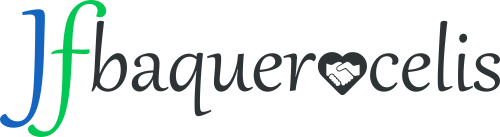
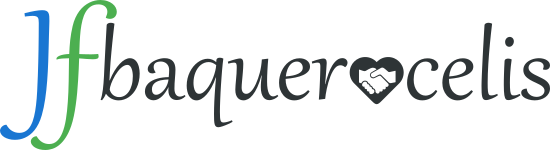
[change] design, colours palette and webfont

diff --git a/public/css/style.css b/public/css/style.css
@@ -1,3 +1,2 @@
 @import 'vendor/flaticon.css';
-@import 'url(https://fonts.googleapis.com/css?family=Open+Sans:400,700)';
-body{font:16px 'Lato',sans-serif;color:#2e3436}.jf-links{color:#fff;-o-transition:all 0.3s ease;-ms-transition:all 0.3s ease;-webkit-transition:all 0.3s ease;-moz-transition:all 0.3s ease;transition:all 0.3s ease;}.jf-links:hover{color:#2e3436}.container-master{display:flex;}.container-master .container__myself{flex:1 1 40%;background-color:#1e88e5;color:#fff;height:100vh}.container-master .container__articles{display:flex;flex-direction:column;flex:1 1 60%;height:100vh}.myself{display:flex;flex-flow:column wrap;height:100%;border-right:5px solid #00c853;-webkit-box-shadow:2px 0 5px #a9a9a9;box-shadow:2px 0 5px #a9a9a9;}.myself__container__avatar{margin:0;width:55%;}.myself__avatar{border:3px solid #1565c0;width:55%;-webkit-border-radius:50%;border-radius:50%}.myself__container__menu,.myself__menu__action,.myself__menu__action--float{display:none}.myself__profile{display:flex;flex-flow:column wrap;align-items:center;justify-content:center;flex:1 1 auto;text-align:center}.myself__container-logo{margin:0;width:80%;}.myself__logo{width:100%}.myself__fullname{margin:1rem 0 0;font-weight:400}.myself__description{margin:0 0 1rem}.myself__footer{display:flex;flex-flow:row wrap;justify-content:space-around;}.myself__footer__by{text-align:center;font-size:.85rem;letter-spacing:1px;}.myself__footer__by p{margin:.4rem 0}.myself__footer__social{display:flex;justify-content:space-around;align-items:center;}.myself__footer__social .myself__footer__link{padding:0 .5rem;color:#fff;text-decoration:none;font-size:1.6rem;-o-transition:all 0.2s ease;-ms-transition:all 0.2s ease;-webkit-transition:all 0.2s ease;-moz-transition:all 0.2s ease;transition:all 0.2s ease;}.myself__footer__social .myself__footer__link:hover{color:#2e3436}.container__articles{overflow-x:hidden;overflow-y:scroll}.welcome,.portfolio,.my-tools{padding:0 4rem;display:none;}.welcome__title,.portfolio__title,.my-tools__title{border-bottom:1px solid #a9a9a9;margin-bottom:.5rem}.welcome__description,.portfolio__description,.my-tools__description{margin:.5rem 0 0}.header{background-color:#1565c0;-webkit-box-shadow:0 2px 4px #a9a9a9;box-shadow:0 2px 4px #a9a9a9;width:100%;z-index:1}.header__menu{display:flex;justify-content:center}.header__menu-list{display:flex;margin:0;padding:0}.header__menu-list__link{list-style-type:none;color:#fff;text-decoration:none;padding:1rem 1.1rem;position:relative;}.header__menu-list__link:after{content:"";opacity:0;-ms-filter:"progid:DXImageTransform.Microsoft.Alpha(Opacity=0)";filter:alpha(opacity=0);position:absolute;left:0;bottom:0;width:100%;height:0;background-color:#1e88e5}.header__menu-list__link--active:after{content:"";opacity:1;-ms-filter:none;filter:none;position:absolute;left:0;bottom:0;width:100%;height:5px;background-color:#1e88e5}.header__menu-list__link:before{content:"";opacity:0;-ms-filter:"progid:DXImageTransform.Microsoft.Alpha(Opacity=0)";filter:alpha(opacity=0);position:absolute;left:0;top:0;width:100%;height:0;background-color:#1e88e5}.header__menu-list__link--active:before{content:"";opacity:1;-ms-filter:none;filter:none;position:absolute;left:0;top:0;width:100%;height:5px;background-color:#1e88e5}.header__menu-list__link:hover:after{-o-animation-name:borderBottom__menu;-ms-animation-name:borderBottom__menu;-webkit-animation-name:borderBottom__menu;-moz-animation-name:borderBottom__menu;animation-name:borderBottom__menu;-o-animation-duration:.3s;-ms-animation-duration:.3s;-webkit-animation-duration:.3s;-moz-animation-duration:.3s;animation-duration:.3s;-o-animation-fill-mode:forwards;-ms-animation-fill-mode:forwards;-webkit-animation-fill-mode:forwards;-moz-animation-fill-mode:forwards;animation-fill-mode:forwards}.header__menu-list__link:hover:before{-o-animation-name:borderBottom__menu;-ms-animation-name:borderBottom__menu;-webkit-animation-name:borderBottom__menu;-moz-animation-name:borderBottom__menu;animation-name:borderBottom__menu;-o-animation-duration:.3s;-ms-animation-duration:.3s;-webkit-animation-duration:.3s;-moz-animation-duration:.3s;animation-duration:.3s;-o-animation-fill-mode:forwards;-ms-animation-fill-mode:forwards;-webkit-animation-fill-mode:forwards;-moz-animation-fill-mode:forwards;animation-fill-mode:forwards}.welcome{display:flex;flex-flow:column nowrap;align-items:center;}.welcome__community{color:#1565c0;}.welcome__community:hover{color:#00c853}.portfolio{flex-flow:column nowrap;align-items:center;justify-content:center;}.portfolio__blockquote{border-left:5px solid #00c853;padding:.5rem .4rem;width:60%;margin:1rem auto;background-color:rgba(0,200,83,0.1);font-size:.95rem}.portfolio__repos{color:#2e3436;}.portfolio__repos:hover{color:#1565c0}.portfolio__container-works{display:flex;flex-direction:row;justify-content:center;}.portfolio__container-works .portfolio__work{display:flex;flex-direction:column;justify-content:space-between;align-items:center;margin:.1rem .4rem;width:9rem;border:1px solid #a9a9a9;-webkit-border-radius:5px;border-radius:5px;}.portfolio__container-works .portfolio__work__logo{width:100%;padding:.5rem}.portfolio__container-works .portfolio__work__description{text-align:center;font-weight:700;background-color:#00c853;color:#fff;border-top:1px solid #a9a9a9;width:100%;margin:0}.portfolio__container-educations{display:flex;flex-direction:column;}.portfolio__container-educations .portfolio__education{display:flex;align-items:flex-start;margin:.3rem 0;border-left:2px solid #00c853;-o-transition:0.1s all ease;-ms-transition:0.1s all ease;-webkit-transition:0.1s all ease;-moz-transition:0.1s all ease;transition:0.1s all ease;}.portfolio__container-educations .portfolio__education:hover{border-left:5px solid #1565c0}.portfolio__container-educations .portfolio__education:hover .portfolio__education__info p{text-decoration:underline}.portfolio__container-educations .portfolio__education__image{width:4em}.portfolio__container-educations .portfolio__education__info{text-decoration:none;color:#2e3436;}.portfolio__container-educations .portfolio__education__info p{margin:0}.my-tools{flex-flow:column nowrap;justify-content:center;align-items:center;}.my-tools__blockquote{border-left:5px solid #00c853;align-self:flex-start;padding:.5rem .4rem;width:60%;margin:1rem auto;background-color:rgba(0,200,83,0.1);font-size:.95rem}.my-tools__container-tool{display:flex;flex-flow:row wrap;margin:.5rem 0}.tool{display:flex;align-items:center;margin:.2rem .1rem;padding:.2rem .4rem;flex:1 1 45%;font-size:.9rem;}.tool__image{width:4rem;padding-right:.5rem}.tool__resume{width:80%}.html{background-color:rgba(241,101,41,0.1);border-bottom:2px solid #f16529}.css{background-color:rgba(1,112,186,0.1);border-bottom:2px solid #0170ba}.javascript{background-color:rgba(252,233,79,0.1);border-bottom:2px solid #fce94f}.stylus{background-color:rgba(46,52,54,0.1);border-bottom:2px solid #2e3436}.node{background-color:rgba(144,199,65,0.1);border-bottom:2px solid #90c741}.article--hide{position:relative;left:100%;top:0;-o-animation-name:hideOut;-ms-animation-name:hideOut;-webkit-animation-name:hideOut;-moz-animation-name:hideOut;animation-name:hideOut;-o-animation-duration:.5s;-ms-animation-duration:.5s;-webkit-animation-duration:.5s;-moz-animation-duration:.5s;animation-duration:.5s}.article--show{display:flex;position:relative;left:0;top:0;-o-animation-name:showUp;-ms-animation-name:showUp;-webkit-animation-name:showUp;-moz-animation-name:showUp;animation-name:showUp;-o-animation-duration:.5s;-ms-animation-duration:.5s;-webkit-animation-duration:.5s;-moz-animation-duration:.5s;animation-duration:.5s}.shake-up{position:relative;top:0;-o-animation-name:shakeUp;-ms-animation-name:shakeUp;-webkit-animation-name:shakeUp;-moz-animation-name:shakeUp;animation-name:shakeUp;-o-animation-duration:.8s;-ms-animation-duration:.8s;-webkit-animation-duration:.8s;-moz-animation-duration:.8s;animation-duration:.8s;-o-animation-iteration-count:infinite;-ms-animation-iteration-count:infinite;-webkit-animation-iteration-count:infinite;-moz-animation-iteration-count:infinite;animation-iteration-count:infinite}@media screen and (min-width:1500px){body{font-size:24px}.header__menu-list__link{padding:1.5rem 2rem}.welcome,.portfolio,.my-tools{padding:0 8rem;margin:3rem 0}.myself__footer__by{font-size:1.2rem}.myself__footer__social .myself__footer__link{font-size:3rem}}@media screen and (max-width:1150px){.myself__profile{font-size:.9rem}}@media screen and (max-width:1065px){.myself__footer__social{order:-1}}@media screen and (max-width:1014px){.myself__profile{padding:0 1.5rem}.myself__fullname{font-size:1.7rem}.tool{flex:1 1 auto}}@media screen and (max-width:950px){body{overflow:hidden;position:relative}.blanketBody{background:#2e3436;display:none;height:100vh;opacity:.4;-ms-filter:"progid:DXImageTransform.Microsoft.Alpha(Opacity=40)";filter:alpha(opacity=40);position:fixed;top:0;width:100vw;z-index:1}.container-master{flex-direction:column}.container__avatar{display:none}.container__articles{display:none}.welcome,.portfolio,.my-tools{display:none;padding:0 2rem;}.welcome__title,.portfolio__title,.my-tools__title{text-align:center}.welcome__blockquote,.portfolio__blockquote,.my-tools__blockquote{width:100%}.header{display:none}.myself{position:relative;border:none;}.myself__menu__action{display:block;position:absolute;font-size:2.5rem;right:.8rem;top:.5rem;z-index:1}.myself__menu__action--float{position:absolute;background-color:rgba(0,200,83,0.6);color:#fff;font-size:2rem;-webkit-border-radius:50%;border-radius:50%;padding:.8rem;bottom:.7rem;right:.5rem;z-index:10;-webkit-box-shadow:2px 2px 10px #2e3436;box-shadow:2px 2px 10px #2e3436;}.myself__menu__action--float:active{background-color:#00c853}.myself__container__menu{display:block;position:fixed;top:0;right:-100%;width:55%;height:100vh;background-color:#fff;z-index:11;padding:0 1rem;border-left:5px solid #00c853;}.myself__container__menu .myself__logo{padding:2em 0 .5rem;width:100%}.myself__container__menu .myself__container__click-me{display:flex;flex-direction:column;align-items:center;}.myself__container__menu .myself__container__click-me .myself__click-me{margin:0;text-align:center;font-size:.9rem}.myself__menu{padding:.8rem 0;margin:0;}.myself__menu__link{padding:1rem 0;display:block;align-items:center;color:#2e3436;text-decoration:none;font-size:1rem;}.myself__menu__link + .myself__menu__link{border-top:1px solid #a9a9a9}.myself__menu__item{display:flex;}.myself__menu__item .material-icons{padding-right:.5rem}}@-moz-keyframes borderBottom__menu{from{height:0;opacity:0;-ms-filter:"progid:DXImageTransform.Microsoft.Alpha(Opacity=0)";filter:alpha(opacity=0)}to{height:5px;opacity:1;-ms-filter:none;filter:none}}@-webkit-keyframes borderBottom__menu{from{height:0;opacity:0;-ms-filter:"progid:DXImageTransform.Microsoft.Alpha(Opacity=0)";filter:alpha(opacity=0)}to{height:5px;opacity:1;-ms-filter:none;filter:none}}@-o-keyframes borderBottom__menu{from{height:0;opacity:0;-ms-filter:"progid:DXImageTransform.Microsoft.Alpha(Opacity=0)";filter:alpha(opacity=0)}to{height:5px;opacity:1;-ms-filter:none;filter:none}}@keyframes borderBottom__menu{from{height:0;opacity:0;-ms-filter:"progid:DXImageTransform.Microsoft.Alpha(Opacity=0)";filter:alpha(opacity=0)}to{height:5px;opacity:1;-ms-filter:none;filter:none}}@-moz-keyframes showUp{from{left:100%}to{left:0}}@-webkit-keyframes showUp{from{left:100%}to{left:0}}@-o-keyframes showUp{from{left:100%}to{left:0}}@keyframes showUp{from{left:100%}to{left:0}}@-moz-keyframes hideOut{from{left:0}to{right:100%}}@-webkit-keyframes hideOut{from{left:0}to{right:100%}}@-o-keyframes hideOut{from{left:0}to{right:100%}}@keyframes hideOut{from{left:0}to{right:100%}}@-moz-keyframes shakeUp{0%{opacity:1;-ms-filter:none;filter:none;top:0}50%{opacity:.5rem;-ms-filter:"progid:DXImageTransform.Microsoft.Alpha(Opacity=50rem)";filter:alpha(opacity=50rem);top:-.8rem}100%{opacity:1;-ms-filter:none;filter:none;top:0}}@-webkit-keyframes shakeUp{0%{opacity:1;-ms-filter:none;filter:none;top:0}50%{opacity:.5rem;-ms-filter:"progid:DXImageTransform.Microsoft.Alpha(Opacity=50rem)";filter:alpha(opacity=50rem);top:-.8rem}100%{opacity:1;-ms-filter:none;filter:none;top:0}}@-o-keyframes shakeUp{0%{opacity:1;-ms-filter:none;filter:none;top:0}50%{opacity:.5rem;-ms-filter:"progid:DXImageTransform.Microsoft.Alpha(Opacity=50rem)";filter:alpha(opacity=50rem);top:-.8rem}100%{opacity:1;-ms-filter:none;filter:none;top:0}}@keyframes shakeUp{0%{opacity:1;-ms-filter:none;filter:none;top:0}50%{opacity:.5rem;-ms-filter:"progid:DXImageTransform.Microsoft.Alpha(Opacity=50rem)";filter:alpha(opacity=50rem);top:-.8rem}100%{opacity:1;-ms-filter:none;filter:none;top:0}}
+body{font:16px 'Karla',sans-serif;color:#212121}.jf-links{color:#fff;-o-transition:all 0.3s ease;-ms-transition:all 0.3s ease;-webkit-transition:all 0.3s ease;-moz-transition:all 0.3s ease;transition:all 0.3s ease;}.jf-links:hover{color:#212121}.container-master{display:flex;}.container-master .container__myself{flex:1 1 40%;background-color:#1976d2;color:#fff;height:100vh}.container-master .container__articles{display:flex;flex-direction:column;flex:1 1 60%;height:100vh}.myself{display:flex;flex-flow:column wrap;height:100%;border-right:5px solid #4caf50;-webkit-box-shadow:2px 0 5px #b6b6b6;box-shadow:2px 0 5px #b6b6b6;}.myself__container__avatar{margin:0;width:55%;}.myself__avatar{-webkit-box-shadow:2px 2px 10px #212121;box-shadow:2px 2px 10px #212121;border:3px solid #2196f3;width:55%;-webkit-border-radius:50%;border-radius:50%;-o-transition:all 0.2s ease;-ms-transition:all 0.2s ease;-webkit-transition:all 0.2s ease;-moz-transition:all 0.2s ease;transition:all 0.2s ease;}.myself__avatar:hover{-webkit-box-shadow:none;box-shadow:none}.myself__container__menu,.myself__menu__action,.myself__menu__action--float{display:none}.myself__profile{display:flex;flex-flow:column wrap;align-items:center;justify-content:center;flex:1 1 auto;text-align:center}.myself__container-logo{margin:0;width:70%;}.myself__logo{width:100%}.myself__fullname{margin:1rem 0 0;font-weight:400}.myself__description{margin:0 0 1rem}.myself__footer{display:flex;flex-flow:row wrap;justify-content:space-around;}.myself__footer__by{text-align:center;font-size:.85rem;letter-spacing:1px;}.myself__footer__by p{margin:.4rem 0}.myself__footer__social{display:flex;justify-content:space-around;align-items:center;}.myself__footer__social .myself__footer__link{padding:0 .5rem;color:#fff;text-decoration:none;font-size:1.6rem;-o-transition:all 0.3s ease;-ms-transition:all 0.3s ease;-webkit-transition:all 0.3s ease;-moz-transition:all 0.3s ease;transition:all 0.3s ease;-o-transform:rotate3d(0,0,0,0);-ms-transform:rotate3d(0,0,0,0);-webkit-transform:rotate3d(0,0,0,0);-moz-transform:rotate3d(0,0,0,0);transform:rotate3d(0,0,0,0);}.myself__footer__social .myself__footer__link:hover{-o-transform:rotate3d(0,0,1,-360deg);-ms-transform:rotate3d(0,0,1,-360deg);-webkit-transform:rotate3d(0,0,1,-360deg);-moz-transform:rotate3d(0,0,1,-360deg);transform:rotate3d(0,0,1,-360deg);color:#212121}.container__articles{overflow-x:hidden;overflow-y:scroll}.welcome,.portfolio,.my-tools{padding:0 4rem;display:none;}.welcome__title,.portfolio__title,.my-tools__title{border-bottom:1px solid #b6b6b6;margin-bottom:.5rem}.welcome__description,.portfolio__description,.my-tools__description{margin:.5rem 0 0}.header{background-color:#2196f3;-webkit-box-shadow:0 2px 4px #b6b6b6;box-shadow:0 2px 4px #b6b6b6;width:100%;z-index:1}.header__menu{display:flex;justify-content:center}.header__menu-list{display:flex;margin:0;padding:0}.header__menu-list__link{list-style-type:none;color:#fff;text-decoration:none;padding:1rem 1.1rem;position:relative;}.header__menu-list__link:after{content:"";opacity:0;-ms-filter:"progid:DXImageTransform.Microsoft.Alpha(Opacity=0)";filter:alpha(opacity=0);position:absolute;left:0;bottom:0;width:100%;height:0;background-color:#1976d2}.header__menu-list__link--active:after{content:"";opacity:1;-ms-filter:none;filter:none;position:absolute;left:0;bottom:0;width:100%;height:5px;background-color:#1976d2}.header__menu-list__link:before{content:"";opacity:0;-ms-filter:"progid:DXImageTransform.Microsoft.Alpha(Opacity=0)";filter:alpha(opacity=0);position:absolute;left:0;top:0;width:100%;height:0;background-color:#1976d2}.header__menu-list__link--active:before{content:"";opacity:1;-ms-filter:none;filter:none;position:absolute;left:0;top:0;width:100%;height:5px;background-color:#1976d2}.header__menu-list__link:hover:after{-o-animation-name:borderBottom__menu;-ms-animation-name:borderBottom__menu;-webkit-animation-name:borderBottom__menu;-moz-animation-name:borderBottom__menu;animation-name:borderBottom__menu;-o-animation-duration:.3s;-ms-animation-duration:.3s;-webkit-animation-duration:.3s;-moz-animation-duration:.3s;animation-duration:.3s;-o-animation-fill-mode:forwards;-ms-animation-fill-mode:forwards;-webkit-animation-fill-mode:forwards;-moz-animation-fill-mode:forwards;animation-fill-mode:forwards}.header__menu-list__link:hover:before{-o-animation-name:borderBottom__menu;-ms-animation-name:borderBottom__menu;-webkit-animation-name:borderBottom__menu;-moz-animation-name:borderBottom__menu;animation-name:borderBottom__menu;-o-animation-duration:.3s;-ms-animation-duration:.3s;-webkit-animation-duration:.3s;-moz-animation-duration:.3s;animation-duration:.3s;-o-animation-fill-mode:forwards;-ms-animation-fill-mode:forwards;-webkit-animation-fill-mode:forwards;-moz-animation-fill-mode:forwards;animation-fill-mode:forwards}.welcome{display:flex;flex-flow:column nowrap;align-items:center;}.welcome__title{margin-top:1.5rem}.welcome__description{margin-bottom:2.5rem}.welcome__community{color:#1976d2;}.welcome__community:hover{color:#4caf50}.portfolio{flex-direction:column;align-items:center;}.portfolio__blockquote{border-left:5px solid #4caf50;padding:.5rem .4rem;width:60%;margin:1rem auto;background-color:rgba(0,200,83,0.1);font-size:.95rem}.portfolio__repos{color:#212121;}.portfolio__repos:hover{color:#1976d2}.portfolio__container-works{display:flex;flex-flow:row wrap;align-items:center;justify-content:center;flex:1 0 auto}.portfolio__go-to{text-decoration:none;color:#fff;}.portfolio__go-to:hover .portfolio__work__description{background-color:#1976d2}.portfolio__work{display:flex;flex-direction:column;align-items:center;margin:.2rem .5rem;width:8rem;height:auto;border:1px solid #b6b6b6;-webkit-border-radius:5px;border-radius:5px;}.portfolio__work__logo{width:100%;padding:.5rem 0}.portfolio__work__description{background-color:#4caf50;width:100%;padding:.3rem 0;text-align:center;-o-transition:0.2s all ease;-ms-transition:0.2s all ease;-webkit-transition:0.2s all ease;-moz-transition:0.2s all ease;transition:0.2s all ease}.portfolio__container-educations{display:flex;flex-direction:column;align-items:flex-start;width:100%}.portfolio__education{flex:1 0 auto;display:flex;justify-content:center;align-items:center;border-left:2px solid #4caf50;margin:.2rem 0;-o-transition:0.2s all ease;-ms-transition:0.2s all ease;-webkit-transition:0.2s all ease;-moz-transition:0.2s all ease;transition:0.2s all ease;}.portfolio__education:hover{border-left:5px solid #1976d2}.portfolio__education:hover .portfolio__education__info{cursor:pointer;text-decoration:underline}.portfolio__education__image{width:5rem}.portfolio__education__info{color:#212121;text-decoration:none;}.portfolio__education__info p{margin:0}.my-tools{flex-flow:column nowrap;justify-content:center;align-items:center;}.my-tools__blockquote{border-left:5px solid #4caf50;align-self:flex-start;padding:.5rem .4rem;width:60%;margin:1rem auto;background-color:rgba(0,200,83,0.1);font-size:.95rem}.my-tools__container-tool{display:flex;flex-flow:row wrap;margin:.5rem 0}.tool{display:flex;align-items:center;margin:.2rem .1rem;padding:.2rem .4rem;flex:1 1 45%;font-size:.9rem;}.tool__image{width:4rem;padding-right:.5rem}.tool__resume{width:80%}.html{background-color:rgba(241,101,41,0.1);border-bottom:2px solid #f16529}.css{background-color:rgba(1,112,186,0.1);border-bottom:2px solid #0170ba}.javascript{background-color:rgba(252,233,79,0.1);border-bottom:2px solid #fce94f}.stylus{background-color:rgba(46,52,54,0.1);border-bottom:2px solid #2e3436}.mongodb{background-color:rgba(78,177,63,0.1);border-bottom:2px solid #4eb13f}.postgresql{background-color:rgba(51,103,145,0.1);border-bottom:2px solid #336791}.node{background-color:rgba(144,199,65,0.1);border-bottom:2px solid #90c741}.article--hide{position:relative;left:100%;top:0;-o-animation-name:hideOut;-ms-animation-name:hideOut;-webkit-animation-name:hideOut;-moz-animation-name:hideOut;animation-name:hideOut;-o-animation-duration:.5s;-ms-animation-duration:.5s;-webkit-animation-duration:.5s;-moz-animation-duration:.5s;animation-duration:.5s}.article--show{display:flex;position:relative;left:0;top:0;-o-animation-name:showUp;-ms-animation-name:showUp;-webkit-animation-name:showUp;-moz-animation-name:showUp;animation-name:showUp;-o-animation-duration:.5s;-ms-animation-duration:.5s;-webkit-animation-duration:.5s;-moz-animation-duration:.5s;animation-duration:.5s}.shake-up{position:relative;top:0;-o-animation-name:shakeUp;-ms-animation-name:shakeUp;-webkit-animation-name:shakeUp;-moz-animation-name:shakeUp;animation-name:shakeUp;-o-animation-duration:.8s;-ms-animation-duration:.8s;-webkit-animation-duration:.8s;-moz-animation-duration:.8s;animation-duration:.8s;-o-animation-iteration-count:infinite;-ms-animation-iteration-count:infinite;-webkit-animation-iteration-count:infinite;-moz-animation-iteration-count:infinite;animation-iteration-count:infinite}@media screen and (min-width:1500px){body{font-size:24px}.header__menu-list__link{padding:1.5rem 2rem}.welcome,.portfolio,.my-tools{padding:0 8rem;margin:3rem 0}.myself__footer__by{font-size:1.2rem}.myself__footer__social .myself__footer__link{font-size:3rem}}@media screen and (max-width:1150px){.myself__profile{font-size:.9rem}}@media screen and (max-width:1065px){.myself__footer__social{order:-1}}@media screen and (max-width:1014px){.myself__profile{padding:0 1.5rem}.myself__fullname{font-size:1.7rem}.tool{flex:1 1 auto}}@media screen and (max-width:950px){body{overflow:hidden;position:relative}.blanketBody{background:#212121;display:none;height:100vh;opacity:.4;-ms-filter:"progid:DXImageTransform.Microsoft.Alpha(Opacity=40)";filter:alpha(opacity=40);position:fixed;top:0;width:100vw;z-index:1}.container-master{flex-direction:column}.container__avatar{display:none}.container__articles{display:none}.welcome,.portfolio,.my-tools{display:none;padding:0 2rem;}.welcome__title,.portfolio__title,.my-tools__title{text-align:center}.welcome__blockquote,.portfolio__blockquote,.my-tools__blockquote{width:100%}.header{display:none}.myself{position:relative;border:none;}.myself__menu__action{display:block;position:absolute;font-size:2.5rem;right:.8rem;top:.5rem;z-index:1}.myself__menu__action--float{position:absolute;background-color:rgba(0,200,83,0.6);color:#fff;font-size:2rem;-webkit-border-radius:50%;border-radius:50%;padding:.8rem;bottom:.7rem;right:.5rem;z-index:10;-webkit-box-shadow:2px 2px 10px #212121;box-shadow:2px 2px 10px #212121;}.myself__menu__action--float:active{background-color:#4caf50}.myself__container__menu{display:block;position:fixed;top:0;right:-100%;width:55%;height:100vh;background-color:#fff;z-index:11;padding:0 1rem;border-left:5px solid #4caf50;}.myself__container__menu .myself__logo{padding:2em 0 .5rem;width:100%}.myself__container__menu .myself__container__click-me{display:flex;flex-direction:column;align-items:center;}.myself__container__menu .myself__container__click-me .myself__click-me{margin:0;text-align:center;font-size:.9rem}.myself__menu{padding:.8rem 0;margin:0;}.myself__menu__link{padding:1rem 0;display:block;align-items:center;color:#212121;text-decoration:none;font-size:1rem;}.myself__menu__link + .myself__menu__link{border-top:1px solid #b6b6b6}.myself__menu__link--active{color:#4caf50}.myself__menu__item{display:flex;}.myself__menu__item .material-icons{padding-right:.5rem}.portfolio__work{margin:.1rem;width:7rem}}@-moz-keyframes borderBottom__menu{from{height:0;opacity:0;-ms-filter:"progid:DXImageTransform.Microsoft.Alpha(Opacity=0)";filter:alpha(opacity=0)}to{height:5px;opacity:1;-ms-filter:none;filter:none}}@-webkit-keyframes borderBottom__menu{from{height:0;opacity:0;-ms-filter:"progid:DXImageTransform.Microsoft.Alpha(Opacity=0)";filter:alpha(opacity=0)}to{height:5px;opacity:1;-ms-filter:none;filter:none}}@-o-keyframes borderBottom__menu{from{height:0;opacity:0;-ms-filter:"progid:DXImageTransform.Microsoft.Alpha(Opacity=0)";filter:alpha(opacity=0)}to{height:5px;opacity:1;-ms-filter:none;filter:none}}@keyframes borderBottom__menu{from{height:0;opacity:0;-ms-filter:"progid:DXImageTransform.Microsoft.Alpha(Opacity=0)";filter:alpha(opacity=0)}to{height:5px;opacity:1;-ms-filter:none;filter:none}}@-moz-keyframes showUp{from{left:100%}to{left:0}}@-webkit-keyframes showUp{from{left:100%}to{left:0}}@-o-keyframes showUp{from{left:100%}to{left:0}}@keyframes showUp{from{left:100%}to{left:0}}@-moz-keyframes hideOut{from{left:0}to{right:100%}}@-webkit-keyframes hideOut{from{left:0}to{right:100%}}@-o-keyframes hideOut{from{left:0}to{right:100%}}@keyframes hideOut{from{left:0}to{right:100%}}@-moz-keyframes shakeUp{0%{opacity:1;-ms-filter:none;filter:none;top:0}50%{opacity:.5rem;-ms-filter:"progid:DXImageTransform.Microsoft.Alpha(Opacity=50rem)";filter:alpha(opacity=50rem);top:-.8rem}100%{opacity:1;-ms-filter:none;filter:none;top:0}}@-webkit-keyframes shakeUp{0%{opacity:1;-ms-filter:none;filter:none;top:0}50%{opacity:.5rem;-ms-filter:"progid:DXImageTransform.Microsoft.Alpha(Opacity=50rem)";filter:alpha(opacity=50rem);top:-.8rem}100%{opacity:1;-ms-filter:none;filter:none;top:0}}@-o-keyframes shakeUp{0%{opacity:1;-ms-filter:none;filter:none;top:0}50%{opacity:.5rem;-ms-filter:"progid:DXImageTransform.Microsoft.Alpha(Opacity=50rem)";filter:alpha(opacity=50rem);top:-.8rem}100%{opacity:1;-ms-filter:none;filter:none;top:0}}@keyframes shakeUp{0%{opacity:1;-ms-filter:none;filter:none;top:0}50%{opacity:.5rem;-ms-filter:"progid:DXImageTransform.Microsoft.Alpha(Opacity=50rem)";filter:alpha(opacity=50rem);top:-.8rem}100%{opacity:1;-ms-filter:none;filter:none;top:0}}

diff --git a/index.html b/index.html
@@ -7,7 +7,7 @@
 	<link type="image/x-icon" href="public/image/codeico.png" rel="icon" />
 	
 	<link href="https://fonts.googleapis.com/icon?family=Material+Icons" rel="stylesheet" />
-	<link href='https://fonts.googleapis.com/css?family=Lato:400,700' rel='stylesheet' type='text/css'>
+	<link href='https://fonts.googleapis.com/css?family=Karla:400,700,400italic,700italic' rel='stylesheet' type='text/css'>
 
 	<link rel="stylesheet" href="https://cdnjs.cloudflare.com/ajax/libs/normalize/4.1.1/normalize.min.css" />
 	<link rel="stylesheet" href="public/css/style.css" />
@@ -103,19 +103,25 @@
 			</article>
 
 			<article class="portfolio" id="portfolio">
+
 				<h2 class="portfolio__title">Mi Portafolio</h2>
 				<p class="portfolio__description">En esta zona podrás encontrar los enlaces de los repositorios y los trabajos que he realizado, talleres, pruebas, inventos, etc. Todo lo que sé hacer con las herramientas que uso, frameworks, librerías, etc.</p>
 				<blockquote class="portfolio__blockquote">Los trabajos que no tienen enlace son proyectos internos de la empresa. Pero estos trabajos podrás verlos en <a target="_blank" class="portfolio__repos" href="https://github.com/jfbaquerocelis">Github</a> y <a target="_blank" class="portfolio__repos" href="https://bitbucket.org/noverflow">Bitbucket</a></blockquote>
 				<div class="portfolio__container-works">
-					<div class="portfolio__work">
-						<img src="public/image/acopterfar.png" class="portfolio__work__logo">
-						<p class="portfolio__work__description">Acopterfar</p>
-					</div>
-					<div class="portfolio__work">
-						<img src="public/image/teletaxi.png" class="portfolio__work__logo">
-						<p class="portfolio__work__description">Teletaxi S.A.S</p>
-					</div>
+					<a href="http://acopterfar.org" class="portfolio__go-to" target="_blank">
+						<figure class="portfolio__work">
+							<img src="public/image/acopterfar.png" class="portfolio__work__logo">
+							<figcaption class="portfolio__work__description">Acopterfar</figcaption>
+						</figure>
+					</a>
+					<a href="" class="portfolio__go-to" target="_blank">
+						<figure class="portfolio__work">
+							<img src="public/image/teletaxi.png" class="portfolio__work__logo">
+							<figcaption class="portfolio__work__description">Teletaxi S.A.S</figcaption>
+						</figure>
+					</a>
 				</div>
+
 				<h2 class="portfolio__title">Mis Estudios</h2>
 				<div class="portfolio__container-educations">
 					<div class="portfolio__education">
@@ -135,6 +141,7 @@
 						</a>
 					</div>
 				</div>
+				
 			</article>
 
 			<article class="my-tools" id="my-tools">
@@ -157,6 +164,14 @@
 					<figure class="tool stylus">
 						<img src="public/image/stylus.png" class="tool__image">
 						<figcaption class="tool__resume"><strong>Stylus</strong> es uno de los pre-procesadores <strong>CSS</strong> más populares en el mundo front-end. Es uno de mis favoritos y lo uso a menudo para optimizar mi código.</figcaption>
+					</figure>
+					<figure class="tool mongodb">
+						<img src="public/image/mongoDB.png" class="tool__image">
+						<figcaption class="tool__resume"><strong>MongoDB</strong> es una base de datos <em>no relacional</em> que nos permite tener información en un formato <strong>JSON</strong>. Ideal para contruir aplicaciones rápidas y elegantes.</figcaption>
+					</figure>
+					<figure class="tool postgresql">
+						<img src="public/image/postgreSQL.png" class="tool__image">
+						<figcaption class="tool__resume"><strong>PostgreSQL</strong> es una base de datos <em>relacional</em> que de igual forma puede ser <em>no relacional</em> ya que trabaja con documentos. Nos permite tener información en formato <strong>JSON</strong> y <strong>JSONB</strong> y es ideal para contruir aplicaciones rápidas, robustas y elegantes.</figcaption>
 					</figure>
 					<figure class="tool node">
 						<img src="public/image/node.png" class="tool__image">

diff --git a/public/js/main.js b/public/js/main.js
@@ -36,6 +36,12 @@ $(document).ready(function () {
 		e.preventDefault()
 		var hash = this.hash
 
+		// Creamos un each para quitar clase a cada item antes de pornerla al que se le está dando click
+		$('.myself__menu__link').each(function () {
+			$(this).removeClass('myself__menu__link--active')
+		})
+		$(this).addClass('myself__menu__link--active')
+
 		$('.myself__menu__action--float').fadeOut('fast')
 
 		$('.myself__container__menu').animate({
